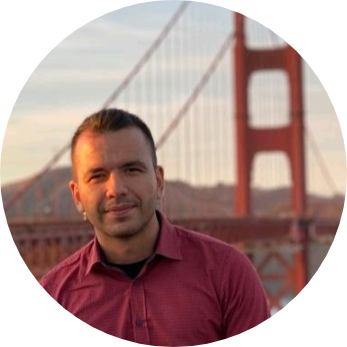
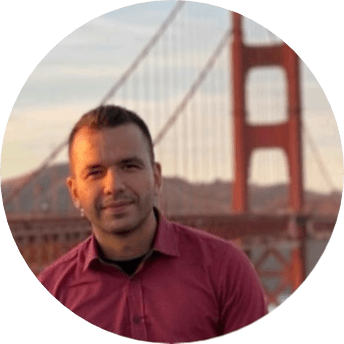
-added "Things I write section" and minimized images for quicker load time. I have also prepared the grid on carousel page for update

diff --git a/src/components/listcard/cardcarousel.jsx b/src/components/listcard/cardcarousel.jsx
@@ -57,10 +57,16 @@ export default function MediaCard() {
     }
     
     const useStyles = makeStyles(theme => ({
+      mainwrapper:{
+        display: 'flex',
+        flexDirection: 'column',
+        justifyContent: 'center',
+        width: '100%',
+        position: 'relative',
+    },
         wrapper: {
             width: "100%",
             marginTop: "10em",
-            flexGrow: 1,
             justifyContent: "center",
         },
         gridroot: {
@@ -82,14 +88,13 @@ export default function MediaCard() {
           }
         },
         content: {
-            width: "100%"
+            width: "100%",
+            height: "130px",
         },
         carsl: {
           width: '100%',
-          height: '75vh',
           [theme.breakpoints.down("xs")] : {
             width: '100%',
-            height: '75vh',
             }
         },
     }));
@@ -128,23 +133,27 @@ export default function MediaCard() {
     }
 
     return (
+    <div className={classes.mainwrapper} style={{ paddingLeft: 40, paddingRight: 40 }}>
+    <Grid container spacing = {5}>
+    <Grid item xs={12}>
     <motion.div
       initial={{ opacity: 1, scaleX: 1 }}
       animate={{ opacity: 1, scaleX: 1 }}
       exit={{ opacity: 0, scaleX: 2 }}
       transition={{duration: 0.5}}
     >
-        <Grid container justify="center"  alignItems="center" xs={12}  spacing={0} className={classes.wrapper}>
-          <Grid item>
+      <Grid container item direction="column" >
+        <Grid container item xs={12}  spacing={1} className={classes.wrapper} justify="center" alignItems="center">
+          <Grid container item xs={1} justify="center" alignItems="center">
           <Arrow
               icon={FaChevronLeft}
               clickFunction = {() => handleClick('left')}
               myRef={leftArrow}
           />
           </Grid>
-          <Grid container justify="center"  alignItems="center" xs={8} sm={10} spacing={0}> 
+          <Grid container justify="center"  alignItems="center" xs={10} sm={10} spacing={0}> 
             {orderActive(projectInfo.filter(checkActive)).map((project, newindex) => (
-              <Grid item justify="center"  alignItems="center" key={project.id} xs={10} sm={4} style={newindex === 1 ? {zIndex:2} : {opacity:0.7, zIndex:0} }>
+              <Grid item justify="center"  alignItems="center" key={project.id} xs={12} sm={4} style={newindex === 1 ? {zIndex:2} : {opacity:0.7, zIndex:0} }>
                     <Zoom in={slideIn} timeout={600}>
                       <Paper elevation = { newindex === 1 ? 15: 0 } 
                               className={ newindex === 1 ? 'maincard' 
@@ -165,7 +174,7 @@ export default function MediaCard() {
                                   image={project.image}
                                   title =  {project.title}
                               />
-                              <CardContent>
+                              <CardContent className={classes.content}>
                                   <Typography gutterBottom variant="h5" component="h2">
                                   {project.title}
                                   </Typography>
@@ -185,7 +194,7 @@ export default function MediaCard() {
                                   image={project.image}
                                   title =  {project.title}
                               />
-                              <CardContent>
+                              <CardContent className={classes.content}>
                                   <Typography gutterBottom variant="h5" component="h2">
                                   {project.title}
                                   </Typography>
@@ -199,7 +208,7 @@ export default function MediaCard() {
                   </Grid>
             ))}
           </Grid>
-          <Grid item>
+          <Grid container item xs={1} justify="center" alignItems="center">
           <Arrow
             icon={FaChevronRight}
             clickFunction = {() => handleClick('right')}
@@ -207,6 +216,24 @@ export default function MediaCard() {
           />
           </Grid>
         </Grid>
+        </Grid>
     </motion.div>
+    </Grid>
+    <Zoom in={true} timeout={600}>
+    <Grid container item xs={12} spacing={2} justify="center" alignItems="center">
+    <Grid item xs={10} sm={5}>
+    <Paper elevation={15}>
+    <Card>
+    </Card>
+    </Paper>
+</Grid>
+<Grid item xs={10} sm={5}>
+    <Card>
+    </Card>
+</Grid>
+</Grid>
+</Zoom>
+</Grid>
+</div>
     );
 }

diff --git a/src/components/heropage/heropage.jsx b/src/components/heropage/heropage.jsx
@@ -1,4 +1,4 @@
-import React from 'react';
+import React, { useEffect } from 'react';
 import { makeStyles } from '@material-ui/core/styles';
 import Card from '@material-ui/core/Card';
 import Grid from '@material-ui/core/Grid';
@@ -10,7 +10,7 @@ import { Divider } from '@material-ui/core';
 import Fade from '@material-ui/core/Fade';
 import Chip from '@material-ui/core/Chip';
 
-
+import './heropage.scss'
 
 
 
@@ -18,7 +18,20 @@ import Chip from '@material-ui/core/Chip';
 
 export default function HeroPage(props){
 
+
+    useEffect (() => {
+        window.mediumWidget();
+      });
+
+
     const useStyles = makeStyles((theme) => ({
+        mainwrapper:{
+            display: 'flex',
+            flexDirection: 'column',
+            justifyContent: 'center',
+            width: '100%',
+            position: 'relative',
+        },
         wrapper: {
             marginTop: "8em",
             display: 'flex',
@@ -60,14 +73,11 @@ export default function HeroPage(props){
             flexDirection: 'column',
         },
         root: {
-          width: '75%',
-          height: '75vh',
+            width: '95%',
           [theme.breakpoints.down("xs")] : {
             width: '95%',
             height: 'auto',
             marginBottom: 50,}
-        
-    
         },
         media: {
             width: '50%',
@@ -83,9 +93,12 @@ export default function HeroPage(props){
 
     return (
         <Fade in={true} timeout={1200}>
+        <div className={classes.mainwrapper} style={{ paddingLeft: 40, paddingRight: 40 }}>
+        <Grid container spacing = {3} alignItems="center" justify='center'>
+        <Grid item xs={12} sm={10}>
         <div className={classes.wrapper}>
-        <Card className={classes.root} elevation={2}>
-        <Grid container  spacing={1}  direction='column' alignItems="stretch" justify='center'>
+        <Card elevation={2}>
+        <Grid container item spacing={1}  direction='column' alignItems="stretch" justify='center'>
         <Grid item xs={12} classes={{ root: classes.hero }}>
            <br/>
            <br/>
@@ -103,7 +116,7 @@ export default function HeroPage(props){
         <Typography Wrap variant="body1" component="p" style={{marginBottom: 15}}>
           Welcome to my personal Portfolio! My name is George and I am 
           a 25-year old Mechanical Engineer turned Product Enthusiast.
-          I am really pationate about turning data into scalable and impactful software products either to solve a problem, or simply for fun.
+          I am really passionate about turning data into scalable and impactful software products either to solve a problem, or simply for fun.
           <br/>
           <br/>
           Ever since I found out what Product Management is all about, I've been focusing on honing my Tech, UI\UX and Business skills.
@@ -137,6 +150,25 @@ export default function HeroPage(props){
         </Grid>
         </Grid>
         </Card>
+        </div>
+        </Grid>
+            <Grid container item xs={12} sm={10}>
+            <Grid item xs={12} sm={6}>
+                <Card elevation={2}>
+                <Typography style={{ paddingTop: 10, color: '#2CB67D' }} align="center" gutterBottom variant="h5" component="h2">
+                 Things I write:
+                </Typography>
+                <Divider classes={{root: classes.divider}}  variant="middle"></Divider>
+                <div style={{ padding: 10}} id="medium-widget">
+                </div>
+                </Card>
+            </Grid>
+            <Grid item xs={12} sm={6}>
+                <Card elevation={2}>
+                </Card>
+            </Grid>
+            </Grid>
+        </Grid>
         </div>
         </Fade>
       );

diff --git a/src/components/navbar/navbar.jsx b/src/components/navbar/navbar.jsx
@@ -53,7 +53,6 @@ export default function ButtonAppBar(props) {
       projectactive: {
         color: project ? project.color : theme.palette.primary.main
       },
-
       root: {
           flexGrow: 1,
       },
@@ -76,7 +75,12 @@ export default function ButtonAppBar(props) {
         <Toolbar className={classes.headerLink}>
           <Hidden xsDown>
           <Typography variant="h5" component="h2" className={classes.title} style={ project ? {color: project.color} : {color:"#2CB67D"}}>
-            George.Koureas
+          <Link
+                    to = {`/who`}
+                    style={ project ? {textDecoration: 'none', color: project.color} : {textDecoration: 'none', color:"#2CB67D"}}
+                     >
+                     George.Koureas
+          </ Link>
           </Typography>
           </Hidden>
           <NavLink title='who' color = { project ? project.color : "#2CB67D" } selected={ page === 'who' ? true : false } theme={props.theme} />

diff --git a/src/constants.js b/src/constants.js
@@ -1,12 +1,12 @@
-import Beehive from './assets/BeehivePresentationImage.png';
-import Minerva from './assets/MinervaPresentationImage.png';
-import Tracker from './assets/CovidPresentationImage.png';
-import Portfolio from './assets/PortfolioPresentationImage.png';
+import Beehive from './assets/BeehivePresentationImage.jpg';
+import Minerva from './assets/MinervaPresentationImage.jpg';
+import Tracker from './assets/CovidPresentationImage.jpg';
+import Portfolio from './assets/PortfolioPresentationImage.jpg';
 import BeehiveMin from './assets/BeehivePresentationImage-min.png';
 import MinervaMin from './assets/MinervaPresentationImage-min.png';
 import TrackerMin from './assets/CovidPresentationImage-min.png';
 import PortfolioMin from './assets/PortfolioPresentationImage-min.png';
-import UIUX from './assets/UI_UXPresentationImage.png';
+import UIUX from './assets/UI_UXPresentationImage.jpg';
 
 
 

diff --git a/public/index.html b/public/index.html
@@ -24,6 +24,12 @@
       work correctly both with client-side routing and a non-root public URL.
       Learn how to configure a non-root public URL by running `npm run build`.
     -->
+    <script src="https://medium-widget.pixelpoint.io/widget.js"></script>
+    <script type="text/javascript">
+        function mediumWidget(){
+        MediumWidget.Init({renderTo: '#medium-widget', params: {"resource":"https://medium.com/@georgekoureas","postsPerLine":1,"limit":2,"picture":"small","fields":["publishAt"],"ratio":"square"}})
+        }
+        </script>
     <title>George.Koureas</title>
   </head>
   <body>

diff --git a/src/hooks/useScript.js b/src/hooks/useScript.js
@@ -1,0 +1,20 @@
+import React, { useEffect } from 'react';
+
+
+const useScript = url => {
+    useEffect(() => {
+      const script = document.createElement('script');
+  
+      script.src = url;
+      script.async = true;
+  
+      document.body.appendChild(script);
+  
+      return () => {
+        document.body.removeChild(script);
+      }
+    }, [url]);
+  };
+  
+  
+export default useScript;

diff --git a/src/components/listcard/cardcarousel.scss b/src/components/listcard/cardcarousel.scss
@@ -1,6 +1,8 @@
 .arrow-container{
     display: flex;
     cursor: pointer;
+    margin: 0;
+    padding: 0;
   }
 
 
@@ -14,14 +16,16 @@
 
 .sidecardleft{
   height: auto;
-  width: 85%;
-  margin-left: 11.5em;
+  width: 100%;
+  margin: 0;
+    padding: 0;
 }
 
 .sidecardright{
   height: auto;
-  width: 85%;
-  margin-left: -7em;
+  width: 100%;
+  margin: 0;
+    padding: 0;
 }
 
 

diff --git a/src/components/heropage/heropage.scss b/src/components/heropage/heropage.scss
@@ -1,0 +1,12 @@
+.medium-widget-article__title{
+    color: inherit;
+}
+
+
+.medium-widget-article__date{
+    color: #2CB67D;
+}
+
+.medium-widget-article__clap:before{
+    color: #2CB67D;
+}

diff --git a/src/app.js b/src/app.js
@@ -26,6 +26,9 @@ export const light = {
   secondary: {
     main: '#fff',
   },
+  background: {
+    default: '#e9e5df',
+  }
   },
 }
 
